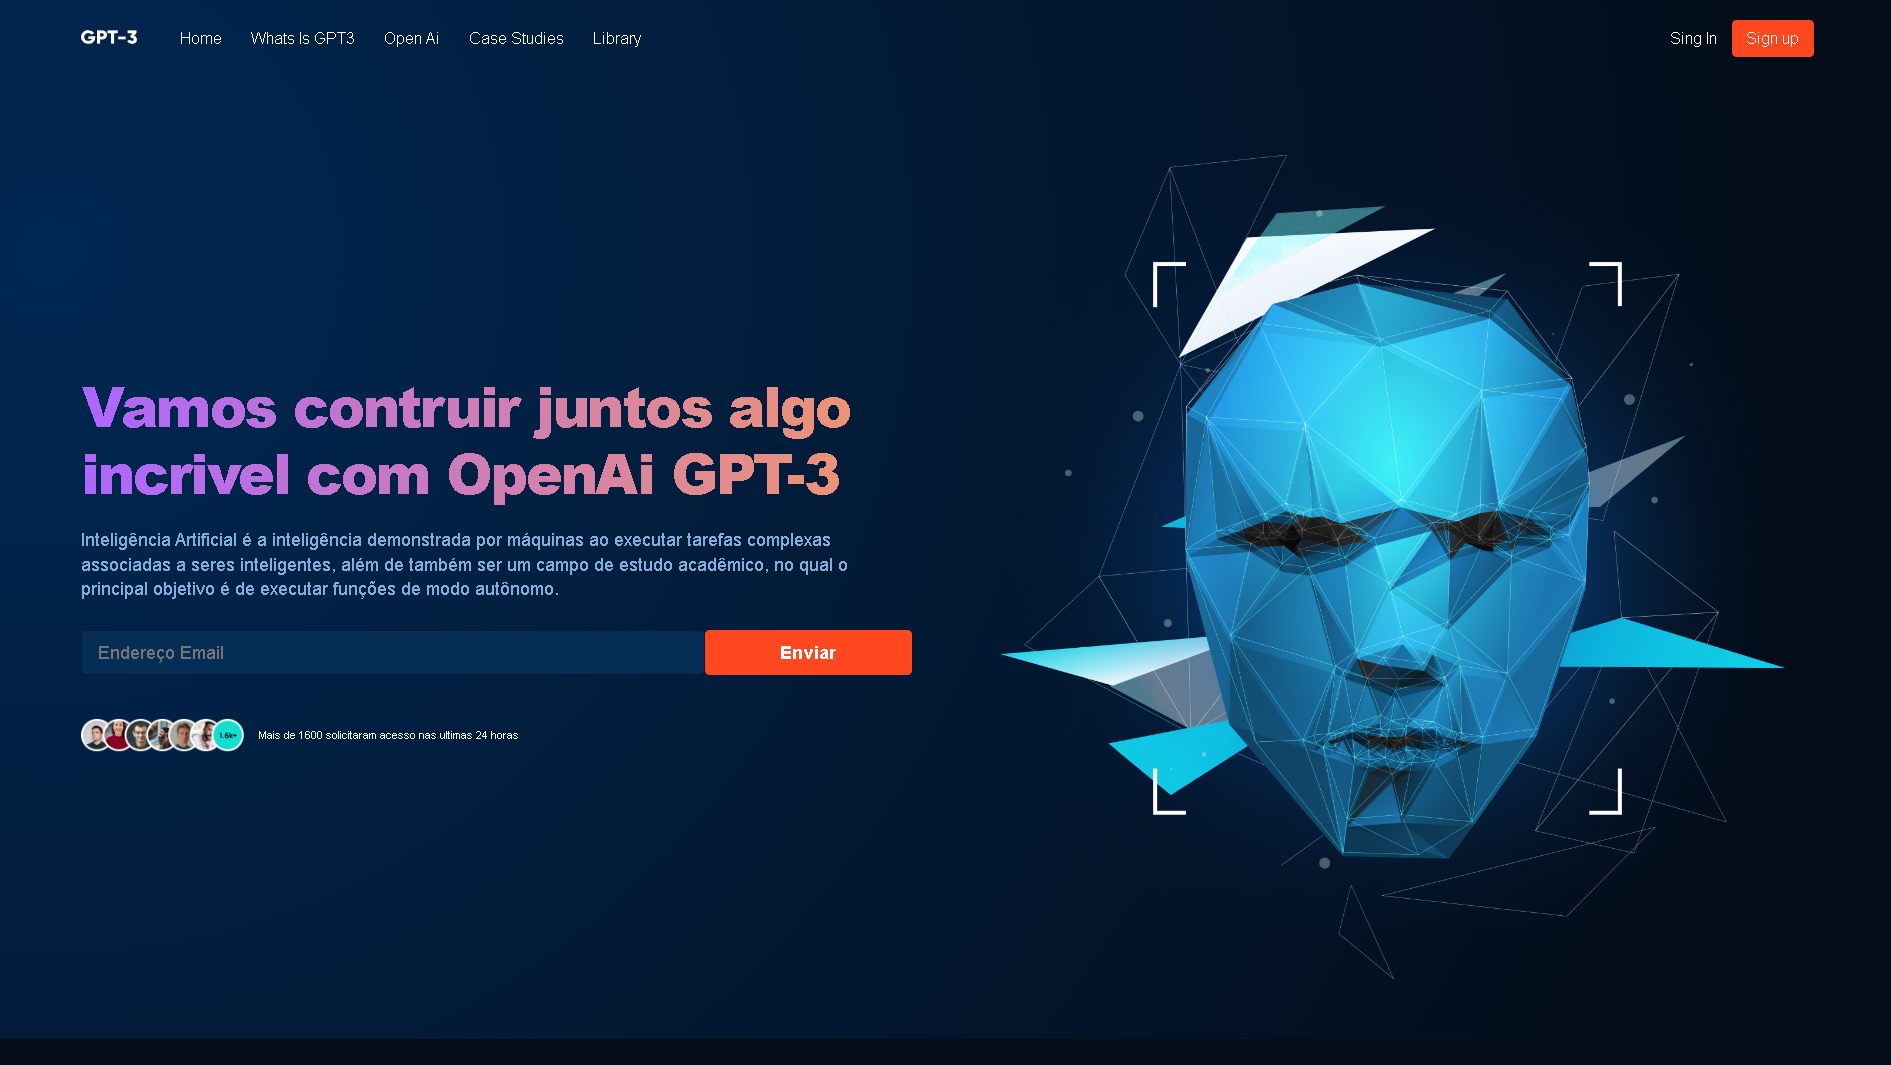
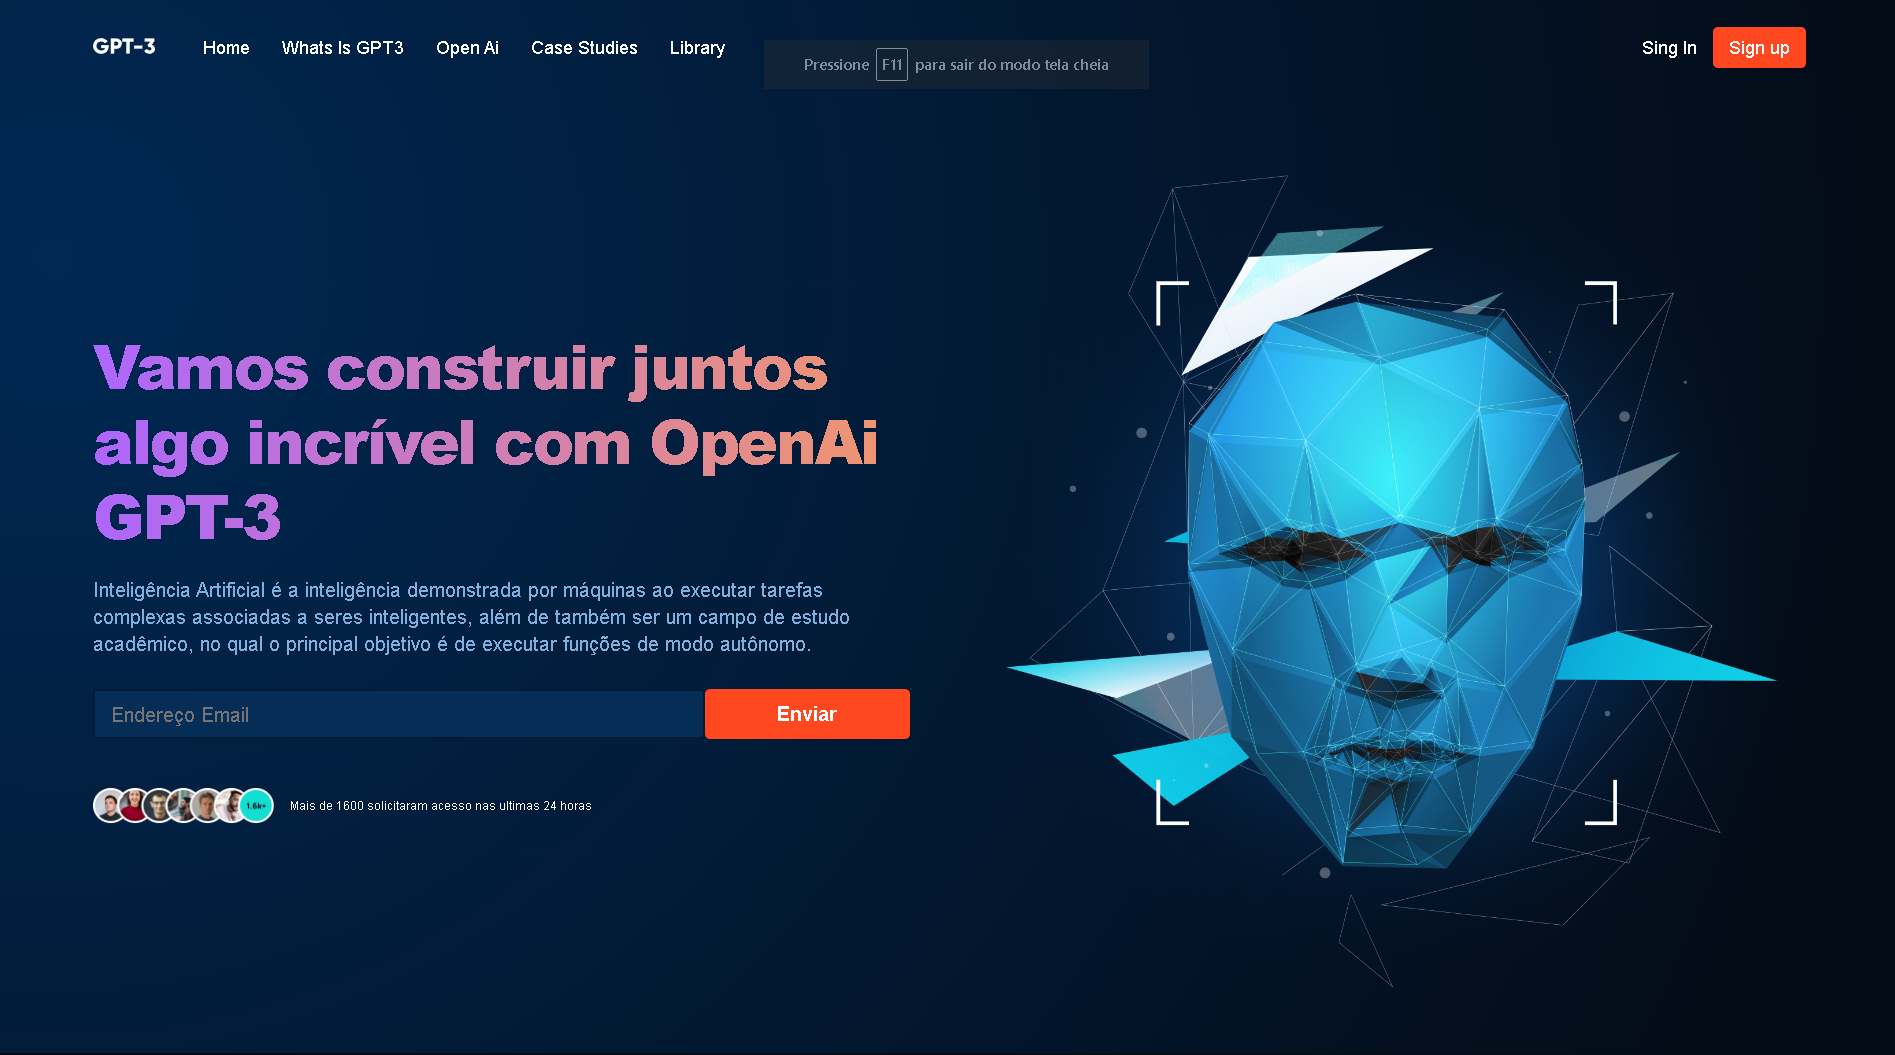
readme

diff --git a/src/containers/Header/index.jsx b/src/containers/Header/index.jsx
@@ -6,7 +6,7 @@ function Header() {
   return (
     <Styled.Container>
       <Styled.Content>
-        <h1>Vamos contruir juntos algo incrivel com OpenAi GPT-3</h1>
+        <h1>Vamos construir juntos algo incrivel com OpenAi GPT-3</h1>
         <p>
           Inteligência Artificial é a inteligência demonstrada por máquinas ao
           executar tarefas complexas associadas a seres inteligentes, além de
